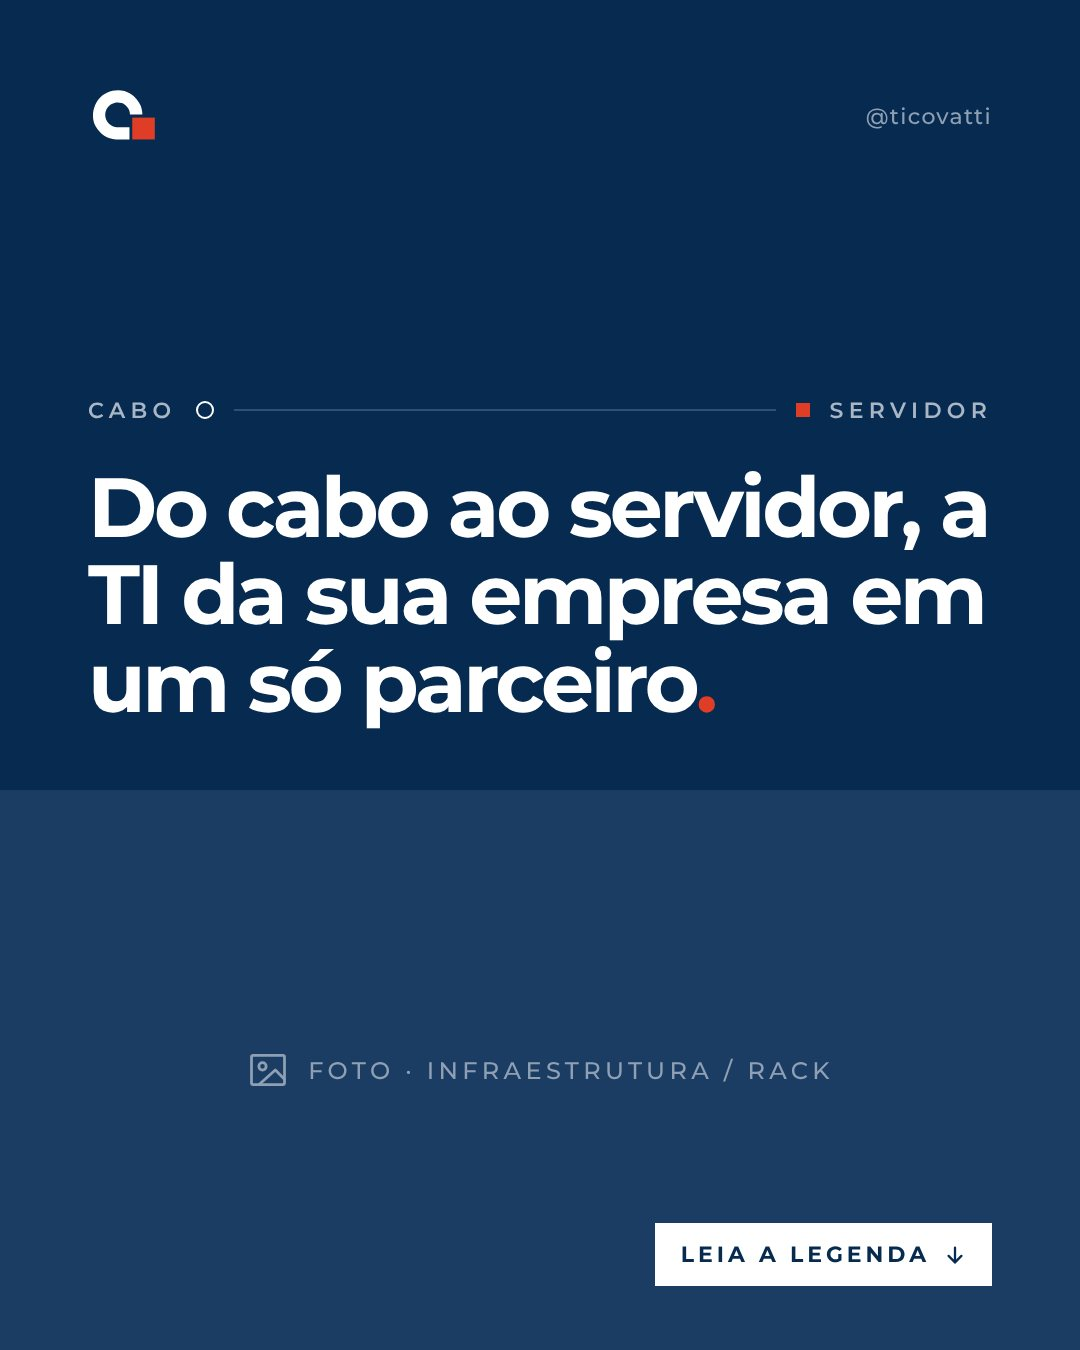
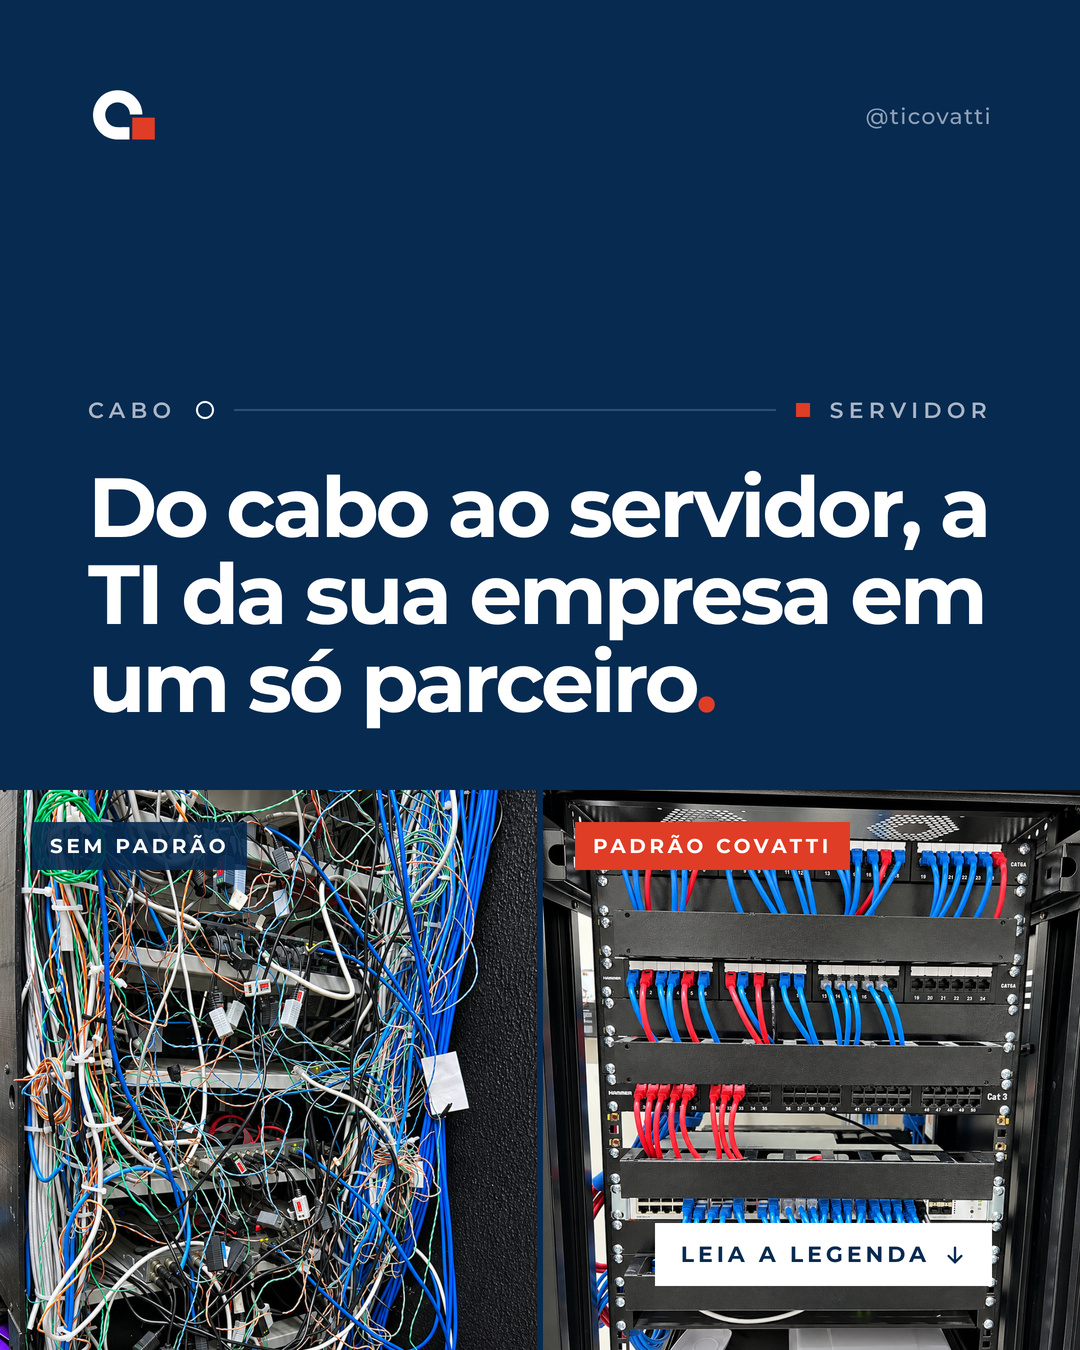
Add files via upload

diff --git a/novembro-2026/index.html b/novembro-2026/index.html
@@ -245,8 +245,7 @@ const CONTEUDO = [
     "titulo": "Do cabo ao servidor: tudo o que a TI da sua empresa precisa em um só parceiro",
     "formato": "Leia a legenda",
     "legenda": "Quando a TI de uma empresa depende de vários fornecedores, um problema simples vira uma maratona de ligações. Um cuida da rede, outro dos computadores, outro do sistema, e ninguém enxerga o todo.\n\nNa Covatti, a gente cuida da estrutura inteira. Veja o que fazemos, organizado por área:\n\nESTRUTURA\nInfraestrutura de rede (cabeamento, racks e organização), Wi-Fi corporativo e instalação de câmeras de segurança (CFTV).\n\nIMPLEMENTAÇÃO\nExecutamos com organização e documentação: desde cabeamento estruturado, servidores, acessos e configurações.\n\nEQUIPAMENTOS E SUPRIMENTOS\nVenda com orientação: o equipamento certo para cada função, sem exageros e com o melhor custo-benefício.\n\nSEGURANÇA E ACESSO\nFirewall e VPN, controle de acesso aos servidores (Microsoft AD) e licenciamento de software.\n\nDADOS\nVirtualização (Proxmox/VMware), backup de dados (NAS/Storage) e hospedagem de e-mails e sites.\n\nSUPORTE E GESTÃO\nManutenção de computadores, notebooks e servidores Windows e Linux, inventário e controle de patrimônio, documentação e compliance de TI.\n\nE como nenhuma empresa é igual à outra, trabalhamos com contratos personalizados, montados conforme a necessidade de cada cliente.\n\nFicou com dúvida sobre algum desses serviços? Manda no direct ou chama no WhatsApp que a gente explica.",
-    "imagem": "p02-1.jpg",
-    "pendente": "foto da infraestrutura"
+    "imagem": "p02-1.jpg"
   },
   {
     "taskId": "1dfh60pfynk",
